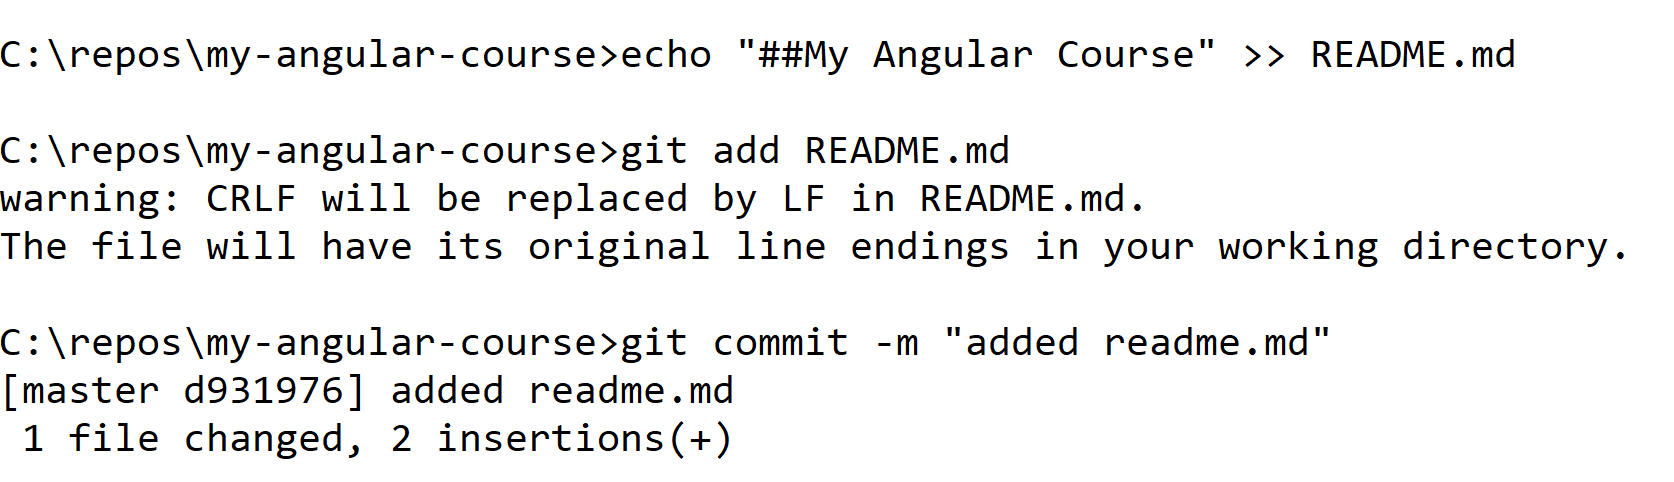
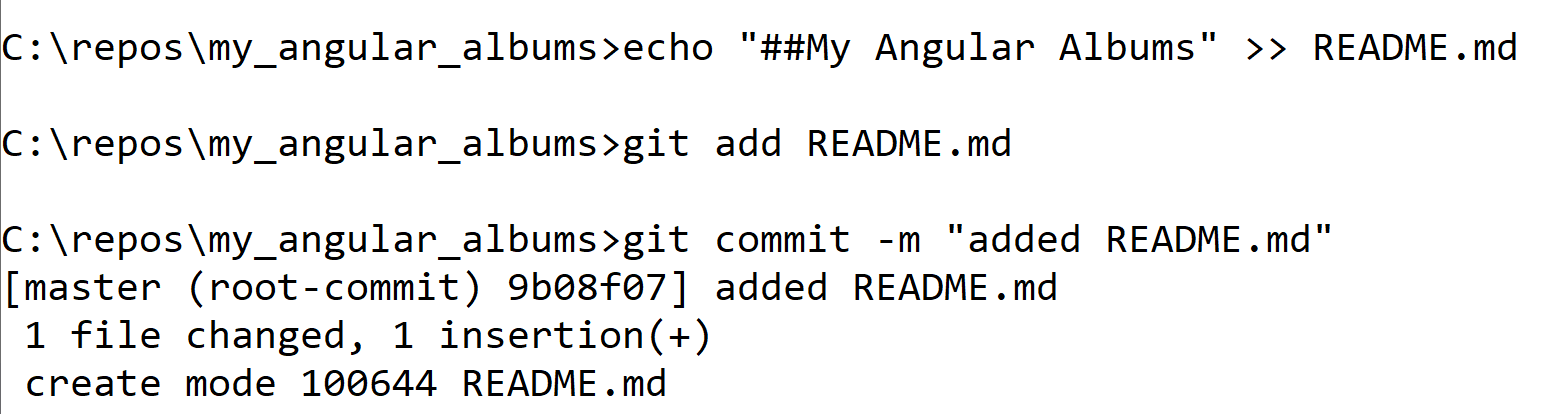
update to only create my_angular_albums

Changed region(s): [[0.0, 0.2609, 0.9594, 0.9565], [0.0, 0.058, 0.9903, 0.1739]]

diff --git a/Ch01-Overview/2using-own-repo/README.md b/Ch01-Overview/2using-own-repo/README.md
@@ -27,7 +27,7 @@
 ### **Part 1: Create your own repository for your coursework**
 [back to top](#table-of-contents)
 
-You will create a repository called **my-angular-course**. It will be tracked by Git so that if you accidentally delete or change files you can recover them easily. (Later we will create a project inside called **my-angular-albums**.)
+You will create a repository called **my-angular-albums**. It will be tracked by Git so that if you accidentally delete or change files you can recover them easily. (Later we will create an Angular project inside)
 
 Additionally, and optionally, you will be able to connect your local repository to a remote GitHub repository. 
 
@@ -64,7 +64,7 @@ For example, you may be referring to a sample project and comparing to your own 
 
 VS Code allows use of control+c and control+v and corresponding context menu options to copy and paste files and directories between projects.  
 
-1. From the Command Prompt within your **my-angular-course** directory execute the command **code .** to open the project in VS Code. 
+1. From the Command Prompt within your **my-angular-albums** directory execute the command **code .** to open the project in VS Code. 
 
     ![add readme](screenshots/code-space-dot.png)
 
@@ -82,8 +82,8 @@ VS Code allows use of control+c and control+v and corresponding context menu opt
     * Angular100-labs 
     * Angular100-solutions
     * Angular100-demos
-    * MyAngularCourse (you will create in next Part) 
-    
+    * The work that you do in class
+  
 3. To use the extension, hit control+shift+p to bring up the command pallette and start typing Peacock.
    
    ![](screenshots/peacock-search.png)
@@ -102,7 +102,7 @@ VS Code allows use of control+c and control+v and corresponding context menu opt
 
 
 
-5. You should now have two instances of VS Code running. In your my-angular-course use Peacock to change the color to C# purple. 
+5. You should now have two instances of VS Code running. In your my-angular-albums use Peacock to change the color to C# purple. 
 
    1. Control+shift+p for command palette
    2. start typing peacock 
@@ -123,7 +123,7 @@ VS Code allows use of control+c and control+v and corresponding context menu opt
 
 4. In **Angular100-Labs** find the file license-agreement.txt from the same  directory as this README.md. Click to highlight the license-agreement.txt file and hit Control-C or right-click to choose copy.
    
-5. Switch back to your **my-angular-course** project and paste the file by right-clicking below your files and choosing paste.
+5. Switch back to your **my-angular-albums** project and paste the file by right-clicking below your files and choosing paste.
 
  ![](screenshots/right-click-paste.png)
 

diff --git a/Ch01-Overview/2using-own-repo/optional-github.md b/Ch01-Overview/2using-own-repo/optional-github.md
@@ -13,7 +13,7 @@ These instructions will help you to setup a remote repository in GitHub that you
 
 
 4. In the menu that appears: 
-* name your new GitHub repository `MyAngularCourse`
+* name your new GitHub repository `MyAngularAlbums`
 * choose private 
 *  Leave the checkbox for **Initialize this repository with a README** unchecked
     ![New Repo Wizard](screenshots/new-repo-wizard.png)
@@ -24,7 +24,7 @@ These instructions will help you to setup a remote repository in GitHub that you
 ![](screenshots/git-add-origin.png)
 
 
-1.  and paste them into the command prompt in your my-angular-course directory.
+1.  and paste them into the command prompt in your my-angular-albums directory.
 ![](screenshots/git-add-remote.png)
 
 ### **Part 2 PUSHING CHANGES TO GITHUB**

diff --git a/Ch04-PassingData/1more-components/README.md b/Ch04-PassingData/1more-components/README.md
@@ -76,4 +76,4 @@
 
 ## Bonus
 
-If done before others, create a new from scratch application in your my-angular-course directory related to your own work, or an interest of yours. Ony use AppComponent to refer to a new component that you create. 
+If done before others, create a new from scratch application in the repos directory related to your own work, or an interest of yours. Ony use AppComponent to refer to a new component that you create. 

diff --git a/Ch01-Overview/1vs-code/optional-github.md b/Ch01-Overview/1vs-code/optional-github.md
@@ -24,7 +24,7 @@ These instructions will help you to setup a remote repository in GitHub that you
 ![](screenshots/git-add-origin.png)
 
 
-1.  and paste them into the command prompt in your my-angular-course directory.
+1.  and paste them into the command prompt in your my-angular-albums directory.
 ![](screenshots/git-add-remote.png)
 
 ### **Part 2 PUSHING CHANGES TO GITHUB**

diff --git a/PracticeBonusProblems/2-Quiz/README.md b/PracticeBonusProblems/2-Quiz/README.md
@@ -4,7 +4,7 @@
 * Create a quiz page which uses hover event to reveal an answer
 
 ## Steps:
-1. In your my-angular-course directory create a new project called `quiz-app`.
+1. In your repos directory create a new project called `quiz-app`.
 
 2. View the image in this folder, `CSSQuiz.png`
 
